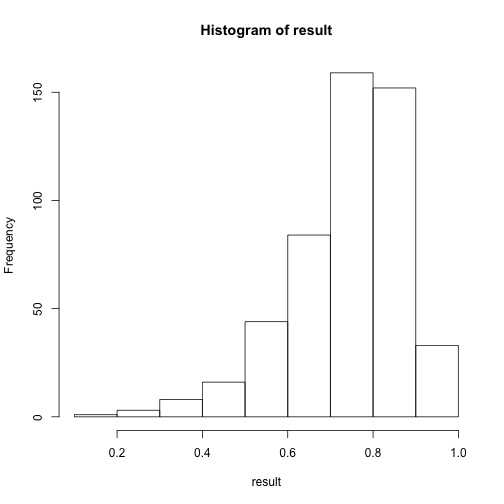
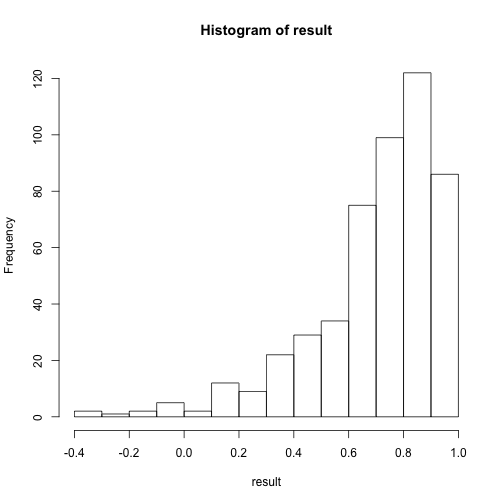
.

diff --git a/_site/r/2014/03/05/error-bars-in-r.html b/_site/r/2014/03/05/error-bars-in-r.html
@@ -184,7 +184,7 @@ cat<span class='p'>(</span><span class='s'>&quot;value:&quot;</span><span class=
 n <span class='o'>&lt;-</span> <span class='m'>500</span>
 result <span class='o'>&lt;-</span> vector<span class='p'>(</span><span class='s'>&quot;double&quot;</span><span class='p'>,</span> n<span class='p'>)</span>
 A <span class='o'>&lt;-</span> <span class='m'>1</span>
-Au <span class='o'>&lt;-</span> <span class='m'>0.3</span>  <span class='c1'># uncertainty in A</span>
+Au <span class='o'>&lt;-</span> <span class='m'>0.5</span>  <span class='c1'># uncertainty in A</span>
 <span class='kr'>for</span> <span class='p'>(</span>i <span class='kr'>in</span> <span class='m'>1</span><span class='o'>:</span>n<span class='p'>)</span> <span class='p'>{</span>
     Ap <span class='o'>&lt;-</span> A <span class='o'>+</span> Au <span class='o'>*</span> rnorm<span class='p'>(</span>n <span class='o'>=</span> <span class='m'>1</span><span class='p'>)</span>
     result<span class='p'>[</span>i<span class='p'>]</span> <span class='o'>=</span> tanh<span class='p'>(</span>Ap<span class='p'>)</span>
@@ -194,7 +194,7 @@ r <span class='o'>&lt;-</span> quantile<span class='p'>(</span>result<span class
 cat<span class='p'>(</span><span class='s'>&quot;value:&quot;</span><span class='p'>,</span> mean<span class='p'>(</span>result<span class='p'>),</span> <span class='s'>&quot;uncertainty:&quot;</span><span class='p'>,</span> sd<span class='p'>(</span>result<span class='p'>),</span> <span class='s'>&quot; range:&quot;</span><span class='p'>,</span> r<span class='p'>[</span><span class='m'>1</span><span class='p'>],</span> <span class='s'>&quot;to&quot;</span><span class='p'>,</span> 
     r<span class='p'>[</span><span class='m'>2</span><span class='p'>],</span> <span class='s'>&quot;\n&quot;</span><span class='p'>)</span>
 </pre></div>
-</td></tr></table><div class='highlight'><pre><code class='text'>## value: 0.7398 uncertainty: 0.1299  range: 0.6132 to 0.8629
+</td></tr></table><div class='highlight'><pre><code class='text'>## value: 0.7009 uncertainty: 0.233  range: 0.4803 to 0.9065
 </code></pre></div><table class='highlighttable'><tr><td class='linenos'><div class='linenodiv'><pre><code class='r'>1</code></pre></div></td><td class='code'><div class='highlight'><pre>hist<span class='p'>(</span>result<span class='p'>)</span>
 </pre></div>
 </td></tr></table>

diff --git a/_posts/2014-03-05-error-bars-in-r.md b/_posts/2014-03-05-error-bars-in-r.md
@@ -106,7 +106,7 @@ set.seed(123)
 n <- 500
 result <- vector("double", n)
 A <- 1
-Au <- 0.3  # uncertainty in A
+Au <- 0.5  # uncertainty in A
 for (i in 1:n) {
     Ap <- A + Au * rnorm(n = 1)
     result[i] = tanh(Ap)
@@ -120,7 +120,7 @@ cat("value:", mean(result), "uncertainty:", sd(result), " range:", r[1], "to",
 
 
 {% highlight text %}
-## value: 0.7398 uncertainty: 0.1299  range: 0.6132 to 0.8629
+## value: 0.7009 uncertainty: 0.233  range: 0.4803 to 0.9065
 {% endhighlight %}
 
 
